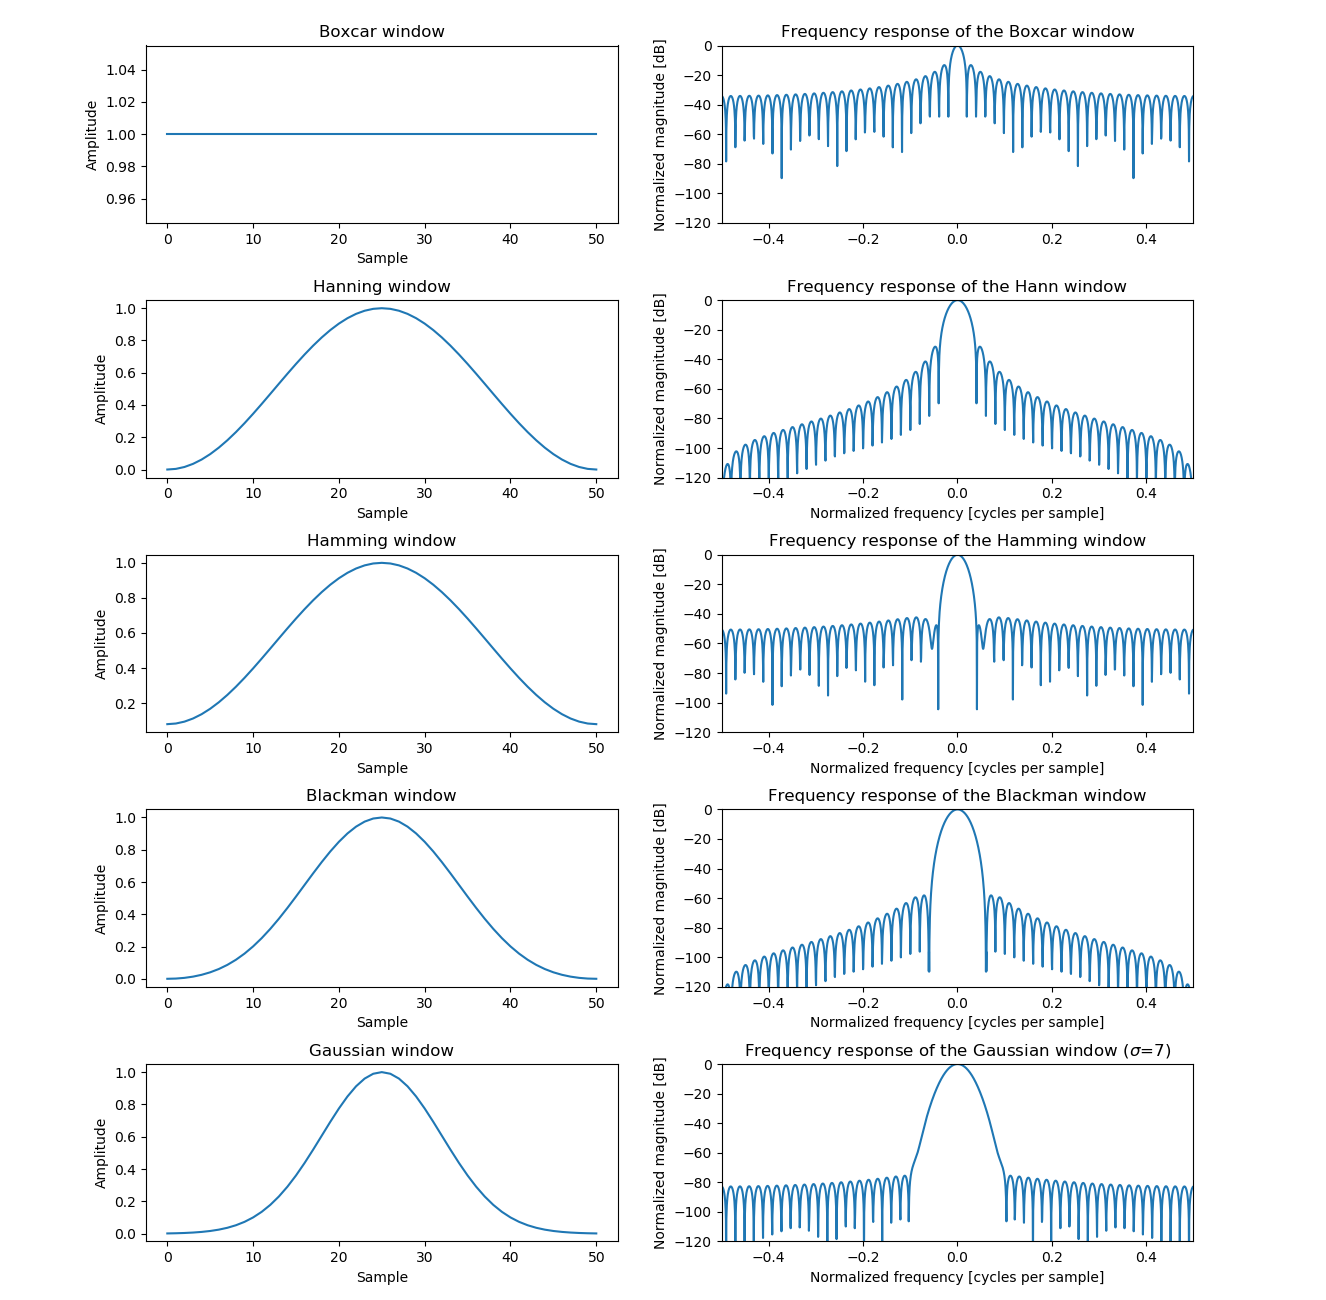
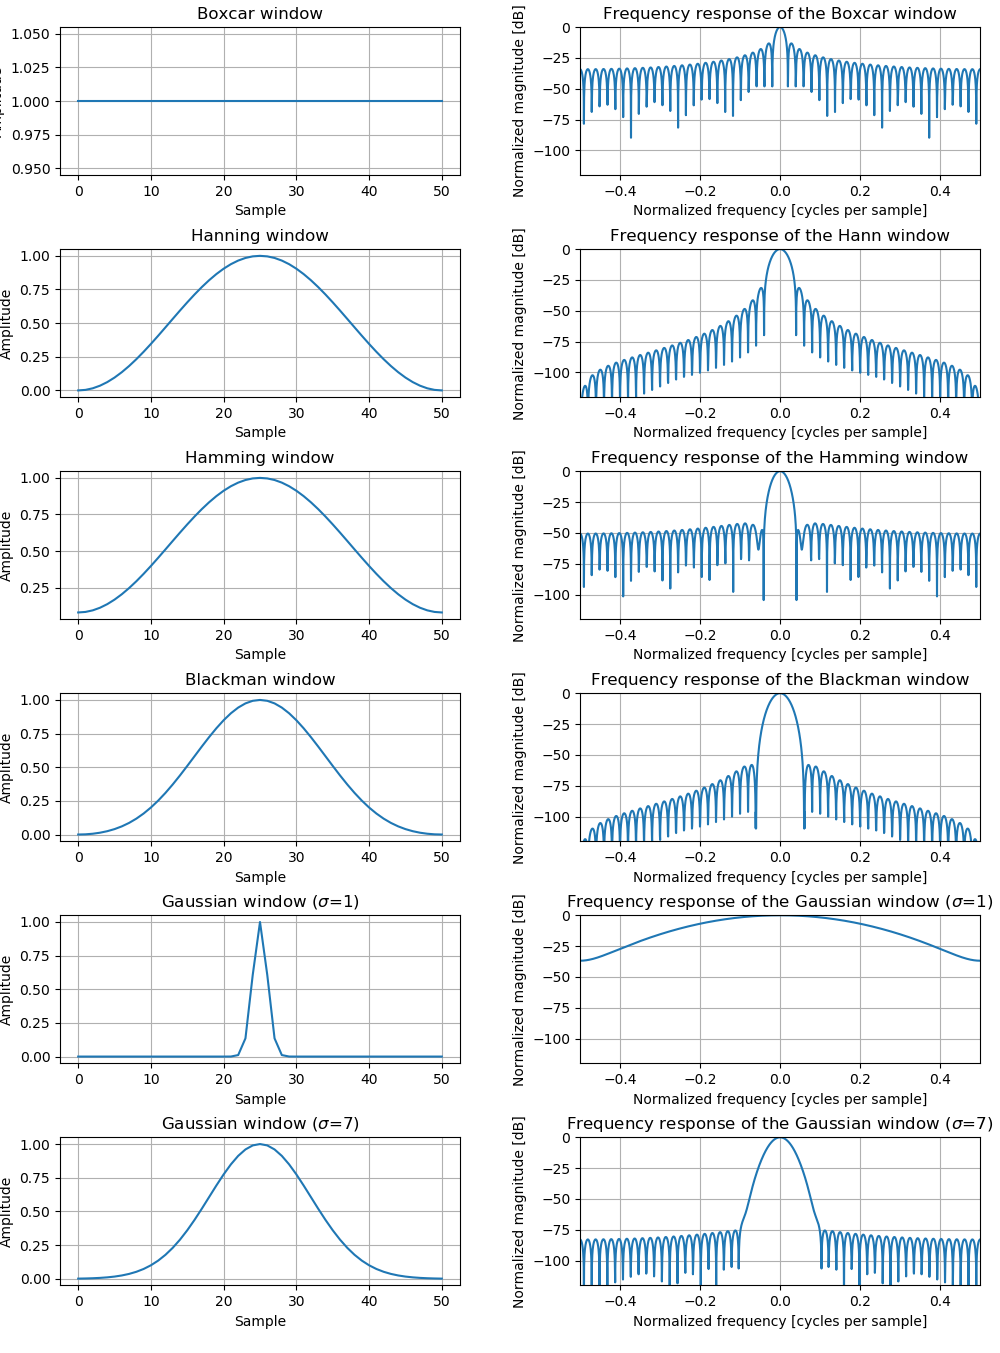
2019-6-20 11:48:49

diff --git a/window.py b/window.py
@@ -32,73 +32,103 @@ freq_blackman = np.linspace(-0.5, 0.5, len(A_blackman))
 response_blackman = np.abs(fftshift(A_blackman / abs(A_blackman).max()))
 response_blackman = 20 * np.log10(np.maximum(response_blackman, 1e-10))
 
-window_gaussian = signal.gaussian(51, std=7)
+window_gaussian = signal.gaussian(51, std=1)
 A_gaussian = fft(window_gaussian, 2048) / (len(window_gaussian)/2.0)
 freq_gaussian = np.linspace(-0.5, 0.5, len(A_gaussian))
 response_gaussian = 20 * np.log10(np.abs(fftshift(A_gaussian / abs(A_gaussian).max())))
 
+window_gaussian_2 = signal.gaussian(51, std=7)
+A_gaussian_2 = fft(window_gaussian_2, 2048) / (len(window_gaussian_2)/2.0)
+freq_gaussian_2 = np.linspace(-0.5, 0.5, len(A_gaussian_2))
+response_gaussian_2 = 20 * np.log10(np.abs(fftshift(A_gaussian_2 / abs(A_gaussian_2).max())))
+
+
 plt.figure('window response')
 
-plt.subplot(5,2,1)
+plt.subplot(6,2,1)
 plt.plot(window_boxcar)
 plt.title("Boxcar window")
 plt.ylabel("Amplitude")
 plt.xlabel("Sample")
-plt.subplot(5,2,2)
+plt.grid(which='major', axis='both')
+plt.subplot(6,2,2)
 plt.plot(freq_boxcar, response_boxcar)
 plt.axis([-0.5, 0.5, -120, 0])
 plt.title("Frequency response of the Boxcar window")
 plt.ylabel("Normalized magnitude [dB]")
+plt.xlabel("Normalized frequency [cycles per sample]")
+plt.grid(which='major', axis='both')
 
-plt.subplot(5,2,3)
+
+plt.subplot(6,2,3)
 plt.plot(window_hanning)
 plt.title("Hanning window")
 plt.ylabel("Amplitude")
 plt.xlabel("Sample")
-plt.subplot(5,2,4)
+plt.grid(which='major', axis='both')
+plt.subplot(6,2,4)
 plt.plot(freq_hanning, response_hanning)
 plt.axis([-0.5, 0.5, -120, 0])
 plt.title("Frequency response of the Hann window")
 plt.ylabel("Normalized magnitude [dB]")
 plt.xlabel("Normalized frequency [cycles per sample]")
+plt.grid(which='major', axis='both')
 
-
-plt.subplot(5,2,5)
+plt.subplot(6,2,5)
 plt.plot(window_hamming)
 plt.title("Hamming window")
 plt.ylabel("Amplitude")
 plt.xlabel("Sample")
-plt.subplot(5,2,6)
+plt.grid(which='major', axis='both')
+plt.subplot(6,2,6)
 plt.plot(freq_hamming, response_hamming)
 plt.axis([-0.5, 0.5, -120, 0])
 plt.title("Frequency response of the Hamming window")
 plt.ylabel("Normalized magnitude [dB]")
 plt.xlabel("Normalized frequency [cycles per sample]")
+plt.grid(which='major', axis='both')
 
-plt.subplot(5,2,7)
+plt.subplot(6,2,7)
 plt.plot(window_blackman)
 plt.title("Blackman window")
 plt.ylabel("Amplitude")
 plt.xlabel("Sample")
-plt.subplot(5,2,8)
+plt.grid(which='major', axis='both')
+plt.subplot(6,2,8)
 plt.plot(freq_blackman, response_blackman)
 plt.axis([-0.5, 0.5, -120, 0])
 plt.title("Frequency response of the Blackman window")
 plt.ylabel("Normalized magnitude [dB]")
 plt.xlabel("Normalized frequency [cycles per sample]")
+plt.grid(which='major', axis='both')
 
-
-plt.subplot(5,2,9)
+plt.subplot(6,2,9)
 plt.plot(window_gaussian)
-plt.title("Gaussian window")
+plt.title("Gaussian window ($\sigma$=1)")
 plt.ylabel("Amplitude")
 plt.xlabel("Sample")
-plt.subplot(5,2,10)
+plt.grid(which='major', axis='both')
+plt.subplot(6,2,10)
 plt.plot(freq_gaussian, response_gaussian)
+plt.axis([-0.5, 0.5, -120, 0])
+plt.title(r"Frequency response of the Gaussian window ($\sigma$=1)")
+plt.ylabel("Normalized magnitude [dB]")
+plt.xlabel("Normalized frequency [cycles per sample]")
+plt.grid(which='major', axis='both')
+
+plt.subplot(6,2,11)
+plt.plot(window_gaussian_2)
+plt.title("Gaussian window ($\sigma$=7)")
+plt.ylabel("Amplitude")
+plt.xlabel("Sample")
+plt.grid(which='major', axis='both')
+plt.subplot(6,2,12)
+plt.plot(freq_gaussian_2, response_gaussian_2)
 plt.axis([-0.5, 0.5, -120, 0])
 plt.title(r"Frequency response of the Gaussian window ($\sigma$=7)")
 plt.ylabel("Normalized magnitude [dB]")
 plt.xlabel("Normalized frequency [cycles per sample]")
+plt.grid(which='major', axis='both')
 
 plt.get_current_fig_manager().window.setGeometry(20, 50, 1000, 1800)
 plt.show()
